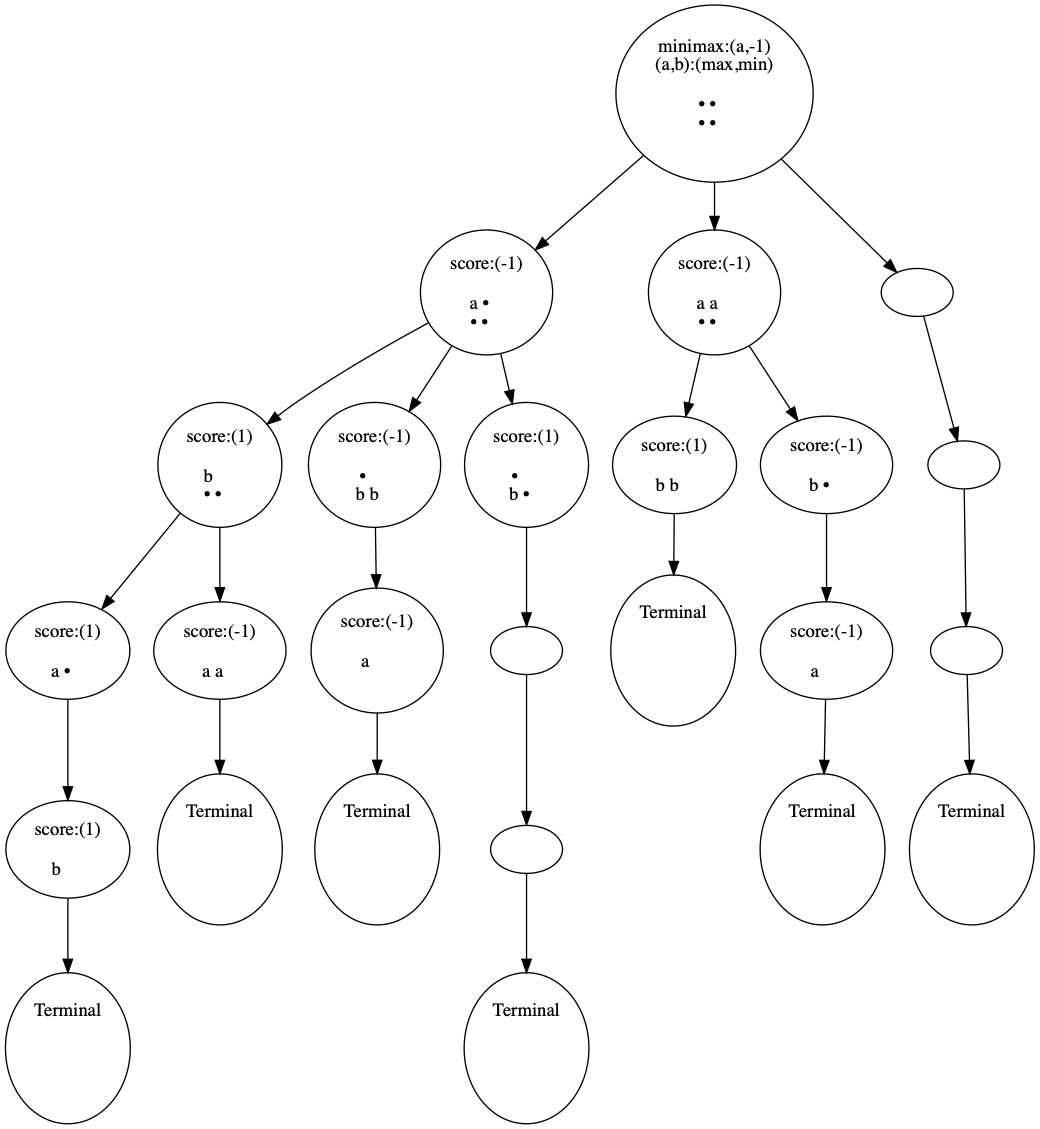
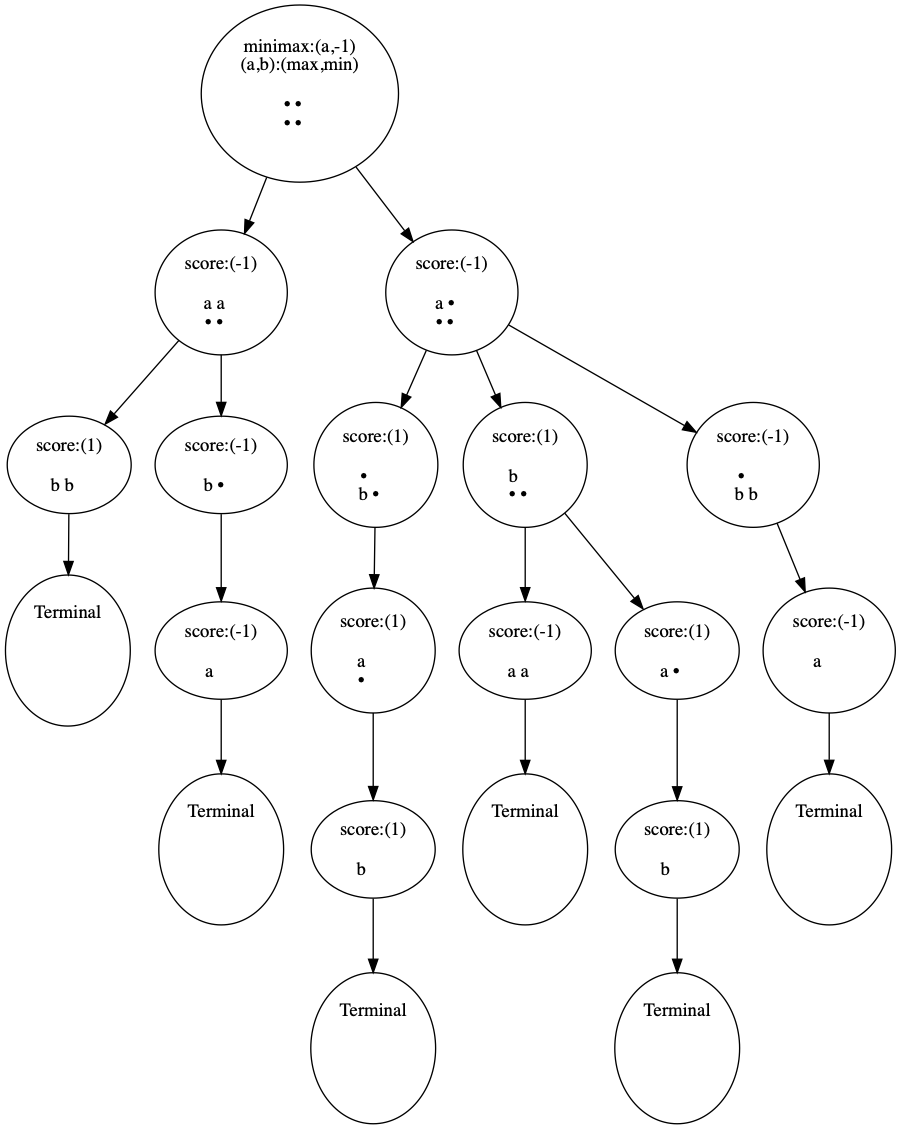
Integrated a new game: Dominoes

diff --git a/src/game_definitions/game_def.py b/src/game_definitions/game_def.py
@@ -3,7 +3,7 @@
 
 import re
 from collections import defaultdict
-
+from py_utils.colors import *
 class GameDef():
     """ Template class which can be reproduced for multiple games """
     def __init__(self,path,initial):
@@ -115,4 +115,54 @@ class GameNimDef(GameDef):
             if i != 0 and re.match(r'^\s*$', line):
                 del lines[i]
         return "\n".join(lines)
+
+color_p = {"a":bcolors.HEADER,"b":bcolors.OKBLUE}
+
+class GameDomDef(GameDef):
+    def __init__(self,path="./game_definitions/dominoes",initial=None):
+        super().__init__(path,initial)
+        self.max_number=4
+        self.subst_var = {"in_hand":[False,False],
+                          "stack":[True,False],
+                          "plays":[False,True],
+                          "pass":[],
+                          "control":[False],
+                          "domino":[True,True]}
+
+    def state_to_ascii(self, state):
+        div = "-"*(self.max_number*2 +1) +"\n"
+        a = div
+        in_hand = [f for f in state.fluents if f.name == "in_hand"]
+        hands = {'a':[],'b':[]}
+        for h in in_hand:
+            t = (h.arguments[1].arguments[0].number,h.arguments[1].arguments[1].number)
+            hands[h.arguments[0].name].append(t)
+        stack = {f.arguments[0].name:f.arguments[1].number for f in state.fluents if f.name == "stack"}
+        hand_a = "  ".join(["{}-{}".format(t[0],t[1]) for t in hands['a']])
+        hand_b = "  ".join(["{}-{}".format(t[0],t[1]) for t in hands['b']])
+        return """
+a: {}
+
+\t\t{}...{}
+
+b: {}
+        """.format(hand_a, stack['l'],stack['r'],hand_b)
+    
+    def step_to_ascii(self, step):
+        p=step.state.control
+        state = step.state
+        a_split = self.state_to_ascii(state).splitlines(True)
+        if(not step.action):
+            return "".join(a_split)
+        if(step.action.action.name=="pass"):
+            a_split[3] = ("\tPASS\t") + a_split[3][2:-1] + ("\tPASS\n")
+            return "".join(a_split)
+        d = (step.action.action.arguments[0].arguments[0].number,step.action.action.arguments[0].arguments[1].number)
+        s = step.action.action.arguments[1].name
+        d_string = " ({}) {}-{}".format(p,d[0],d[1])
+        if s == "l":
+            a_split[3] = "\t" + d_string + "\t" + a_split[3][2:]
+        else:
+            a_split[3] = a_split[3][:-1] + "\t" + d_string + "\n"
+        return "".join(a_split)
 # 

diff --git a/src/main_mxasp.py b/src/main_mxasp.py
@@ -7,16 +7,18 @@ from structures import *
 from players import *
 from game_definitions import *
 
-def main_minmax_asp(path,plaintext,image_file_name,ilasp_examples_file,rules_file,main_player):
+import sys
+# getattr(sys.modules[__name__],"GameNimDef")
+def main_minmax_asp(path,plaintext,image_file_name,ilasp_examples_file,rules_file,main_player,game_name):
     # remove trailing backslash as failsafe
     html = not plaintext
     path = re.sub(r"\/$","",path)
-    nim = GameNimDef(path)    
-    initial = nim.get_initial_time()
+    game = globals()['Game{}Def'.format(game_name)](path)    
+    initial = game.get_initial_time()
     learn_examples = not (ilasp_examples_file is None)
     learn_rules = not (rules_file is None)
 
-    minmax_match, min_max_tree, examples, learned_rules = get_minmax_init(nim,
+    minmax_match, min_max_tree, examples, learned_rules = get_minmax_init(game,
                                                            main_player,
                                                            initial,
                                                            debug=True,learning_rules=learn_rules, learning_examples=learn_examples)
@@ -49,6 +51,8 @@ if __name__ == "__main__":
                         help="relative path to location where ilasp examples will be saved")
     parser.add_argument("--rules-file", type=str, default=None,
                     help="relative path to save rules learned when tree rules are learned while computing minmax")
+    parser.add_argument("--game-name", type=str, default="Nim",
+                    help="short name for the game. Available: Dom and Nim")
     
     args = parser.parse_args()
-    main_minmax_asp(args.path,args.plaintext,args.image_file_name,args.ilasp_examples_file,args.rules_file,args.main_player)
+    main_minmax_asp(args.path,args.plaintext,args.image_file_name,args.ilasp_examples_file,args.rules_file,args.main_player,args.game_name)

diff --git a/src/main_match.py b/src/main_match.py
@@ -9,10 +9,10 @@ from structures import *
 from players import *
 from game_definitions import *
 
-def main_match(path,depth,pA_style,pB_style,debug):
+def main_match(path,depth,pA_style,pB_style,debug,game_name):
     # remove trailing backslash as failsafe
     path=re.sub(r"\/$","",path)
-    nim = GameNimDef(path)
+    game = globals()['Game{}Def'.format(game_name)](path)    
     if "human" in [pA_style,pB_style]:
         debug = True
     
@@ -25,7 +25,7 @@ def main_match(path,depth,pA_style,pB_style,debug):
             conf["main_player"]=n
         pl.append(conf)
 
-    match, response_times = simulate_match(nim,pl,debug=debug)
+    match, response_times = simulate_match(game,pl,debug=debug)
     
 
 if __name__ == "__main__":
@@ -43,6 +43,9 @@ if __name__ == "__main__":
                         " either 'minmax_asp', 'minmax', 'random', 'strategy' or 'human'")
     parser.add_argument("--debug", default=False, action="store_true",
                         help="print debugging information from stack")
+    parser.add_argument("--game-name", type=str, default="Nim",
+                help="short name for the game. Available: Dom and Nim")
+
     args = parser.parse_args()
     # run match command
-    main_match(args.path,args.depth,args.pA_style,args.pB_style,args.debug)
+    main_match(args.path,args.depth,args.pA_style,args.pB_style,args.debug,args.game_name)

diff --git a/src/main_mx_tree.py b/src/main_mx_tree.py
@@ -7,13 +7,13 @@ from structures import *
 from players import *
 from game_definitions import *
 
-def main_tree(path,plaintext,file_name,main_player):
+def main_tree(path,plaintext,file_name,main_player,game_name):
     # remove trailing backslash as failsafe
     html = not plaintext
     path = re.sub(r"\/$","",path)
     tree = Tree()
-    nim = GameNimDef(path)
-    tree.from_game_def(nim,main_player=main_player)
+    game = globals()['Game{}Def'.format(game_name)](path)    
+    tree.from_game_def(game,main_player=main_player)
     tree.print_in_file(html=html,file_name=file_name,main_player=main_player)
 
 if __name__ == "__main__":
@@ -27,6 +27,9 @@ if __name__ == "__main__":
                         help="whether plaintext should be used for visualization")
     parser.add_argument("--main-player", default="a",
                     help="the player from wich to maximize")
+    parser.add_argument("--game-name", type=str, default="Nim",
+                help="short name for the game. Available: Dom and Nim")
+
     args = parser.parse_args()
     # run tree command
-    main_tree(args.path,args.plaintext,args.file_name,args.main_player)
+    main_tree(args.path,args.plaintext,args.file_name,args.main_player,args.game_name)

diff --git a/src/players/players.py b/src/players/players.py
@@ -95,6 +95,7 @@ class MinmaxASPPlayer(Player):
         action = [l_a for l_a in state.legal_actions
                   if symbol_str(l_a.action) == action_name][0]
         return action
+color_p = {"a":bcolors.HEADER,"b":bcolors.OKBLUE}
 
 class MinmaxPlayer(Player):
     """
